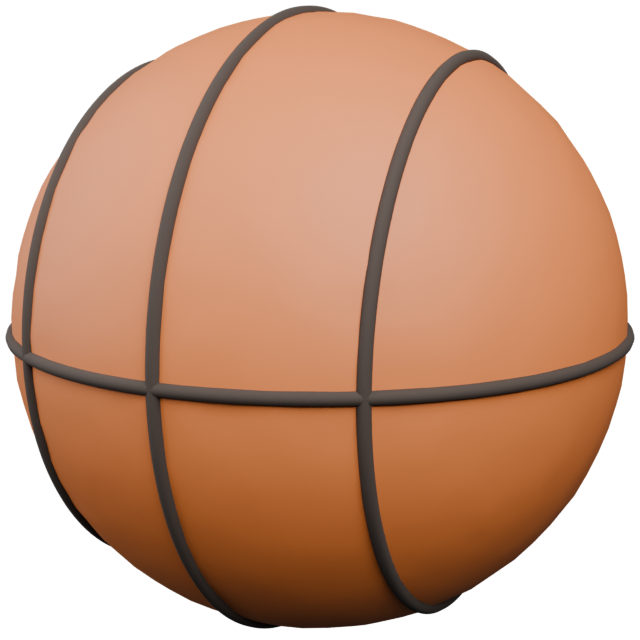
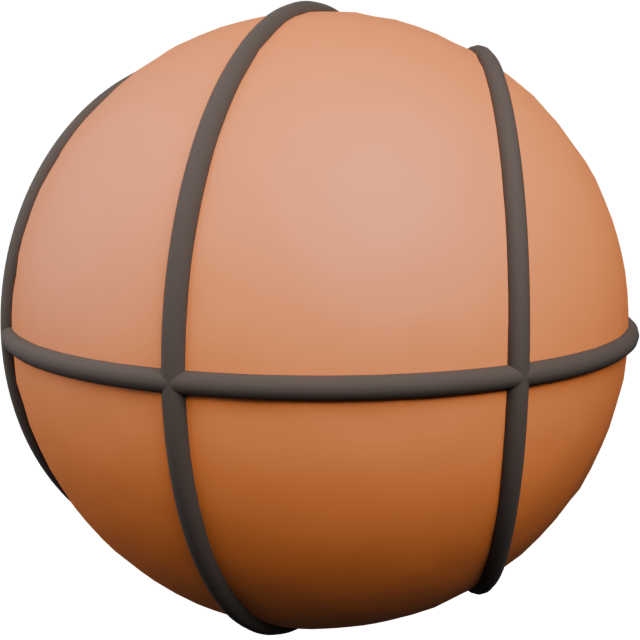
Basketball: real seam layout (bowed side circles); monitors gap+toe-in; stool/level
- Basketball seams rebuilt correctly: a great-circle equator + great-circle
  vertical centre line (both read straight) + two side seams that are OFFSET
  small circles tilted off the view axis. A great circle can only project to a
  centred line, so the side seams had to be non-centred circles — now each bows
  OUTWARD and only crosses the equator, with no pole convergence. Thicker seam
  channel (bevel 0.032).
- Dual monitors: spread apart for a real gap and toed IN toward each other.
- Reverted the pegboard box level to the simple version and laid it flat on the
  ledge shelf (vial up) instead of hanging it; removed the vialed SpiritLevel.
- Stool moved from the empty foreground to pulled-up beside the bench.

diff --git a/src/landing/Stage.tsx b/src/landing/Stage.tsx
@@ -735,45 +735,18 @@ function ClawHammer({ x, y }: { x: number; y: number }) {
   )
 }
 
-/** A box level: milled body, dark end caps, three vials, hang slot. */
-function SpiritLevel({ x, y }: { x: number; y: number }) {
-  const BODY = <meshStandardMaterial color={'#b8961f'} metalness={0.35} roughness={0.45} />
-  const vial = (vx: number, rot = 0) => (
-    <group key={vx} position={[vx, 0, 0.028]} rotation={[0, 0, rot]}>
-      <mesh>
-        <boxGeometry args={[0.16, 0.062, 0.012]} />
-        <meshStandardMaterial color={'#101114'} roughness={0.6} />
-      </mesh>
-      <mesh rotation={[0, 0, Math.PI / 2]}>
-        <cylinderGeometry args={[0.018, 0.018, 0.12, 10]} />
-        <meshStandardMaterial color={'#2fbf6a'} emissive={'#0a2a1a'} emissiveIntensity={0.3} transparent opacity={0.8} />
-      </mesh>
-    </group>
-  )
+/** The simple box level, lying flat on the ledge shelf. */
+function LedgeLevel({ position, rotation = [0, 0, 0] }: { position: [number, number, number]; rotation?: [number, number, number] }) {
   return (
-    <group position={[x, y, 0]}>
-      <Hook x={-0.4} y={0.09} />
-      <Hook x={0.4} y={0.09} />
-      {/* extruded body + top rail groove */}
-      <mesh castShadow>
+    <group position={position} rotation={rotation as unknown as THREE.Euler}>
+      <mesh castShadow receiveShadow>
         <boxGeometry args={[1.05, 0.11, 0.05]} />
-        {BODY}
+        <meshStandardMaterial color={'#b8961f'} metalness={0.3} roughness={0.5} />
       </mesh>
-      <mesh position={[0, 0.035, 0.026]}>
-        <boxGeometry args={[1.0, 0.012, 0.004]} />
-        <meshStandardMaterial color={'#6a5712'} roughness={0.6} />
+      <mesh position={[0, 0, 0.03]}>
+        <boxGeometry args={[0.15, 0.055, 0.02]} />
+        <meshStandardMaterial color={'#2fbf6a'} emissive={'#0a2a1a'} emissiveIntensity={0.25} transparent opacity={0.75} />
       </mesh>
-      {/* dark end caps */}
-      {[-0.535, 0.535].map((ex) => (
-        <mesh key={ex} position={[ex, 0, 0]} castShadow>
-          <boxGeometry args={[0.03, 0.118, 0.058]} />
-          <meshStandardMaterial color={'#17181b'} roughness={0.7} />
-        </mesh>
-      ))}
-      {/* centre + 45° end vials */}
-      {vial(0)}
-      {vial(-0.36, Math.PI / 4)}
-      {vial(0.36, -Math.PI / 4)}
     </group>
   )
 }
@@ -827,9 +800,6 @@ function Tools() {
       {/* lower-left: an adjustable wrench + a handsaw (readable garage staples) */}
       {at(0.55, 2.45, 1.35, <AdjustableWrench x={0} y={0} />)}
       {at(1.35, 2.95, 1.25, <Handsaw x={0} y={0} />)}
-
-      {/* box level hanging under the tool ledge */}
-      {at(2.5, 1.82, 1.15, <SpiritLevel x={0} y={0} />)}
     </group>
   )
 }
@@ -1174,8 +1144,8 @@ function Background() {
           <meshStandardMaterial color={i ? '#b23c3c' : '#1a1a1e'} roughness={0.7} metalness={0.2} />
         </mesh>
       ))}
-      {/* a shop stool in front of the bench (seat ~bench height, base on floor) */}
-      <group position={[-2.7, -2, 2.4]}>
+      {/* a shop stool pulled up to the bench, left of the monitors */}
+      <group position={[-3.75, -2, 0.75]}>
         {/* padded seat */}
         <mesh position={[0, 2.0, 0]} castShadow receiveShadow>
           <cylinderGeometry args={[0.44, 0.44, 0.14, 28]} />
@@ -1322,6 +1292,8 @@ function WallDressing() {
             <meshStandardMaterial color={'#e2ddd0'} roughness={0.6} />
           </mesh>
         </group>
+        {/* the box level lying flat on the ledge, in front of the cans/jar/box */}
+        <LedgeLevel position={[0.05, 0.055, 0.11]} rotation={[-Math.PI / 2, 0.16, 0]} />
       </group>
       <Tools />
     </group>

diff --git a/src/landing/Workstation.tsx b/src/landing/Workstation.tsx
@@ -212,8 +212,8 @@ export default function Workstation() {
   // Keyboard + mouse in front; the connector lays within the arm's reach.
   return (
     <group>
-      <Monitor position={[-2.95, 0, -0.45]} rotation={[0, 0.14, 0]} mode="telemetry" />
-      <Monitor position={[-1.55, 0, -0.45]} rotation={[0, -0.14, 0]} mode="off" />
+      <Monitor position={[-3.05, 0, -0.5]} rotation={[0, 0.16, 0]} mode="telemetry" />
+      <Monitor position={[-1.45, 0, -0.5]} rotation={[0, -0.16, 0]} mode="off" />
       <Keyboard position={[-2.15, 0, 0.6]} rotation={[0, 0.05, 0]} />
       <Mouse position={[-1.1, 0, 0.7]} />
       <Connector position={[0.95, 0, 0.4]} rotation={[0, -0.5, 0]} />

diff --git a/assets-src/blender/ball.py b/assets-src/blender/ball.py
@@ -5,10 +5,10 @@ Run headless:
   blender -b -P ball.py -- --render     # writes _preview_ball.png
   blender -b -P ball.py -- --export     # writes ../../public/models/basketball.glb
 
-Seam pattern = real 8-panel ball, traced from a photo: one horizontal equator,
-one vertical great-circle ring, and two small circles in planes parallel to the
-ring (the bowed seams either side of the centre line). No convergence points,
-no waves. Pebble grain via a fine noise displace.
+Seam pattern (traced from a photo): a horizontal equator + a vertical centre
+line (both great circles, so they read straight) + two side seams that are
+OFFSET small circles tilted off the view axis, so each one bows OUTWARD and only
+ever crosses the equator — no pole convergence. Pebble grain via noise displace.
 """
 import bpy, math, os, sys
 from mathutils import Vector
@@ -58,12 +58,6 @@ bpy.context.view_layer.objects.active = ball
 bpy.ops.object.modifier_apply(modifier="pebble")
 
 # ---- seams -----------------------------------------------------------------
-# Exact real-basketball layout (traced from a photo, no convergence points):
-#   1. horizontal equator (great circle)
-#   2. ONE vertical great circle (the centre line + its back half)
-#   3. TWO small circles in planes PARALLEL to the vertical ring, offset to
-#      either side — these are the "concave" flanking seams. They never meet
-#      the vertical ring, so no eye/convergence anywhere.
 P = Vector((0.0, 0.0, 1.0))  # pole axis straight up (Blender Z)
 A = Vector((1.0, 0.0, 0.0))
 B = Vector((0.0, 1.0, 0.0))
@@ -71,8 +65,8 @@ B = Vector((0.0, 1.0, 0.0))
 def seam_curve(points, name):
     cu = bpy.data.curves.new(name, "CURVE")
     cu.dimensions = "3D"
-    cu.bevel_depth = 0.02
-    cu.bevel_resolution = 3
+    cu.bevel_depth = 0.032  # thick channel like a real moulded seam
+    cu.bevel_resolution = 4
     cu.use_fill_caps = True
     sp = cu.splines.new("POLY")
     sp.points.add(len(points) - 1)
@@ -93,17 +87,33 @@ def circle(center, u, v, radius, n=200):
     return pts
 
 ZERO = Vector((0, 0, 0))
-# equator: horizontal great circle
+
+def small_circle(axis, offset):
+    """A small circle whose plane is offset from the centre along `axis`
+    (offset as a fraction of R). Because it is NOT centred on the sphere it
+    projects to an OFF-CENTRE arc — a seam that bows to one side and never
+    reaches a pole, so it only ever crosses the equator."""
+    axis = axis.normalized()
+    center = axis * (offset * R)
+    rad = math.sqrt(max(0.0, R * R - (offset * R) ** 2))
+    ref = P if abs(axis.dot(P)) < 0.9 else A
+    u = axis.cross(ref).normalized()
+    v = axis.cross(u).normalized()
+    return circle(center, u, v, rad)
+
+# 1) middle horizontal line — the equator (great circle, reads straight)
 seam_curve(circle(ZERO, A, B, R), "seam_eq")
-# vertical ring: great circle in the B-P plane — from the front (looking along
-# -B) it reads as the straight vertical centre line
-seam_curve(circle(ZERO, B, P, R), "seam_ring")
-# two flanking small circles, planes parallel to the vertical ring, offset ±d
-# along A — the gentle bowed seams either side of the centre line
-d = 0.52 * R
-r_small = math.sqrt(R * R - d * d)
-seam_curve(circle(A * d, B, P, r_small), "seam_side_pos")
-seam_curve(circle(A * -d, B, P, r_small), "seam_side_neg")
+# 2) middle vertical line — great circle in the B-P plane (reads straight,
+#    viewed along -B), crossing the equator dead centre
+seam_curve(circle(ZERO, B, P, R), "seam_center")
+# 3) two side seams — small circles whose axis is tilted off the view direction
+#    so each bows OUTWARD and only touches the equator (no pole convergence)
+TILT = math.radians(22)   # tilt of the ring axis off ±A toward the view (B)
+OFF = 0.5                 # how far the ring sits toward each side
+axis_r = A * math.cos(TILT) + B * math.sin(TILT)
+axis_l = A * -math.cos(TILT) + B * math.sin(TILT)
+seam_curve(small_circle(axis_r, OFF), "seam_R")
+seam_curve(small_circle(axis_l, OFF), "seam_L")
 
 # ---- render / export -------------------------------------------------------
 def setup_render():
@@ -117,7 +127,7 @@ def setup_render():
         pass
     cam_d = bpy.data.cameras.new("cam"); cam = bpy.data.objects.new("cam", cam_d)
     bpy.context.collection.objects.link(cam); scn.camera = cam
-    cam.location = (1.5, -3.2, 0.7); cam_d.lens = 60  # near-frontal, like the reference photo
+    cam.location = (1.3, -3.3, 0.6); cam_d.lens = 60  # near-frontal, like the reference photo
     # aim at origin
     dirv = Vector((0, 0, 0)) - Vector(cam.location)
     cam.rotation_euler = dirv.to_track_quat("-Z", "Y").to_euler()